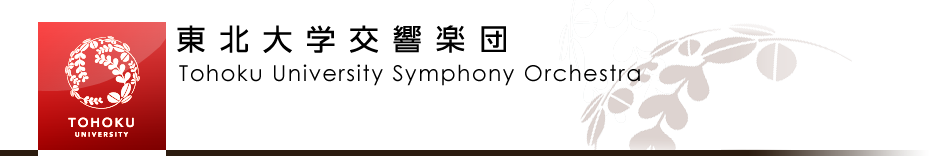
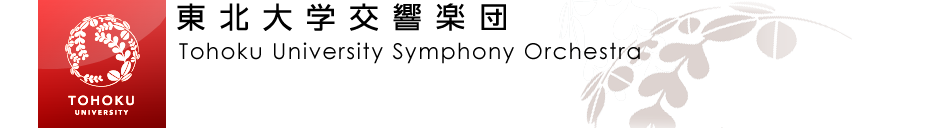
メニューバーの変更

diff --git a/style.css b/style.css
@@ -121,8 +121,7 @@ a:active,a:focus {
 /* ロゴ
 *************/
 #header .logo {
-  float:left;
-  padding:30px 0 0
+	padding:10px 0 0
 }
 
 .logo a {
@@ -130,16 +129,6 @@ a:active,a:focus {
   font-weight:700;
   line-height:1;
   font-family:"Palatino Linotype","Book Antiqua",Palatino,serif
-}
-
-.logo span {
-  font-size:12px;
-  font-weight:400
-}
-
-#header h1 {
-  font-size:32px;
-  color:#444
 }
 
 /**************************
@@ -542,7 +531,6 @@ table.table th {
 
 	nav div.panel {
 	  display:block!important;
-	  float:right
 	}
 
 	a#menu {
@@ -550,8 +538,11 @@ table.table th {
 	}
 
 	nav#mainNav ul {
-	  float:right;
-	  overflow:hidden
+		display:table;
+	  table-layout: fixed;
+    width:100%;
+	  overflow:hidden;
+	  border-top:5px solid #FF9B54
 	}
 
 	* html nav#mainNav ul {
@@ -559,17 +550,19 @@ table.table th {
 	}
 
 	nav#mainNav ul li {
-	  float:left;
-	  text-align:center
+	  margin: 0 auto;
+	  display:table-cell;
+	  vertical-align:middle;
+    text-align:center
 	}
 
 	nav#mainNav ul a {
-	  font-size:13px;
+	  font-size:15px;
+	  font-weight: bold;
 	  display:block;
 	  padding:35px 0;
 	  width:95px;
 	  line-height:1.2;
-	  border-top:5px solid #FF9B54
 	}
 
 	nav#mainNav ul span {

diff --git a/contact.html b/contact.html
@@ -20,16 +20,13 @@
 
   <div id="header">
     <div class="inner">
+      
       <!-- ロゴ -->
-
       <div class="logo">
-        <a href="index.html">会社ロゴ<br>
-        <span>会社名が入ります</span></a>
-
-        <h1>東北大学交響楽団</h1>
+        <a href="index.html"><img src="images/title.png"></a>
       </div><!-- / ロゴ -->
-      <!-- メインナビゲーション -->
 
+      <!-- メインナビゲーション -->
       <nav id="mainNav">
         <a class="menu" id="menu"><span>MENU</span></a>
 

diff --git a/index.html b/index.html
@@ -20,16 +20,13 @@
 
   <div id="header">
     <div class="inner">
+
       <!-- ロゴ -->
-
       <div class="logo">
-        <a href="index.html">会社ロゴ<br>
-        <span>会社名が入ります</span></a>
-
-        <h1>東北大学交響楽団</h1>
+        <a href="index.html"><img src="images/title.png"></a>
       </div><!-- / ロゴ -->
-      <!-- メインナビゲーション -->
 
+      <!-- メインナビゲーション -->
       <nav id="mainNav">
         <a class="menu" id="menu"><span>MENU</span></a>
 

diff --git a/link.html b/link.html
@@ -20,16 +20,13 @@
 
   <div id="header">
     <div class="inner">
+      
       <!-- ロゴ -->
-
       <div class="logo">
-        <a href="index.html">会社ロゴ<br>
-        <span>会社名が入ります</span></a>
+        <a href="index.html"><img src="images/title.png"></a>
+      </div><!-- / ロゴ --> 
 
-        <h1>東北大学交響楽団</h1>
-      </div><!-- / ロゴ -->
       <!-- メインナビゲーション -->
-
       <nav id="mainNav">
         <a class="menu" id="menu"><span>MENU</span></a>
 

diff --git a/sitemap.html b/sitemap.html
@@ -18,12 +18,11 @@
 <!-- ヘッダー -->
 <div id="header">
    <div class="inner">
+
       <!-- ロゴ -->
       <div class="logo">
-         <a href="index.html">会社ロゴ<br><span>会社名が入ります</span></a>
-      <h1>東北大学交響楽団</h1>
-      </div>
-      <!-- / ロゴ -->
+        <a href="index.html"><img src="images/title.png"></a>
+      </div><!-- / ロゴ -->
 
      <!-- メインナビゲーション -->
     <nav id="mainNav">

diff --git a/concert.html b/concert.html
@@ -20,14 +20,12 @@
 
   <div id="header">
     <div class="inner">
-      <!-- ロゴ -->
 
+        <!-- ロゴ -->
       <div class="logo">
-        <a href="index.html">会社ロゴ<br>
-        <span>会社名が入ります</span></a>
-
-        <h1>東北大学交響楽団</h1>
+        <a href="index.html"><img src="images/title.png"></a>
       </div><!-- / ロゴ -->
+      
       <!-- メインナビゲーション -->
 
       <nav id="mainNav">

diff --git a/news.html b/news.html
@@ -18,14 +18,12 @@
 <body>
   <div id="header">
     <div class="inner">
+
       <!-- ロゴ -->
-
       <div class="logo">
-        <a href="index.html">会社ロゴ<br>
-        <span>会社名が入ります</span></a>
-
-        <h1>東北大学交響楽団</h1>
+        <a href="index.html"><img src="images/title.png"></a>
       </div><!-- / ロゴ -->
+      
       <!-- メインナビゲーション -->
 
       <nav id="mainNav">

diff --git a/about.html b/about.html
@@ -20,14 +20,12 @@
 
   <div id="header">
     <div class="inner">
+
       <!-- ロゴ -->
-
       <div class="logo">
-        <a href="index.html">会社ロゴ<br>
-        <span>会社名が入ります</span></a>
-
-        <h1>東北大学交響楽団</h1>
+        <a href="index.html"><img src="images/title.png"></a>
       </div><!-- / ロゴ -->
+      
       <!-- メインナビゲーション -->
 
       <nav id="mainNav">

diff --git a/join.html b/join.html
@@ -20,14 +20,12 @@
 
   <div id="header">
     <div class="inner">
+
       <!-- ロゴ -->
-
       <div class="logo">
-        <a href="index.html">会社ロゴ<br>
-        <span>会社名が入ります</span></a>
-
-        <h1>東北大学交響楽団</h1>
+        <a href="index.html"><img src="images/title.png"></a>
       </div><!-- / ロゴ -->
+      
       <!-- メインナビゲーション -->
 
       <nav id="mainNav">

diff --git a/pastconcert.html b/pastconcert.html
@@ -20,14 +20,12 @@
 
   <div id="header">
     <div class="inner">
+      
       <!-- ロゴ -->
-
       <div class="logo">
-        <a href="index.html">会社ロゴ<br>
-        <span>会社名が入ります</span></a>
-
-        <h1>東北大学交響楽団</h1>
+        <a href="index.html"><img src="images/title.png"></a>
       </div><!-- / ロゴ -->
+
       <!-- メインナビゲーション -->
 
       <nav id="mainNav">

diff --git a/privacypolicy.html b/privacypolicy.html
@@ -20,14 +20,12 @@
 
   <div id="header">
     <div class="inner">
+
       <!-- ロゴ -->
-
       <div class="logo">
-        <a href="index.html">会社ロゴ<br>
-        <span>会社名が入ります</span></a>
-
-        <h1>東北大学交響楽団</h1>
+        <a href="index.html"><img src="images/title.png"></a>
       </div><!-- / ロゴ -->
+      
       <!-- メインナビゲーション -->
 
       <nav id="mainNav">
